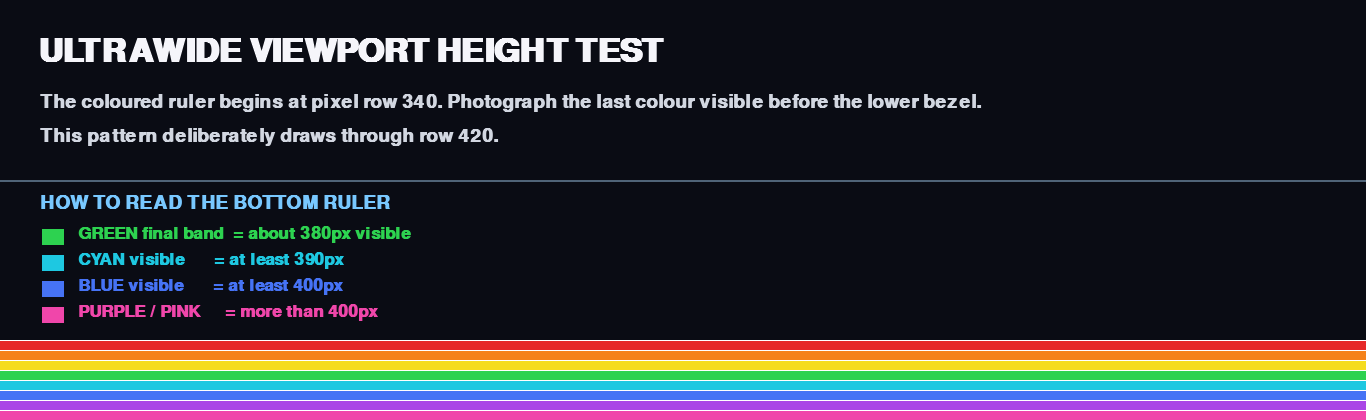
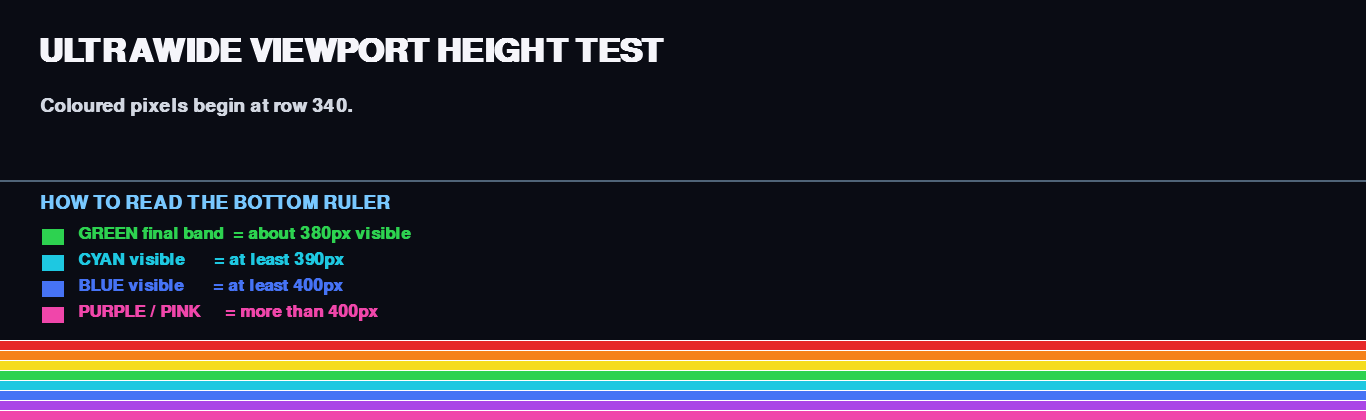
Make viewport diagnostic zero-slot

Changed region(s): [[0.0307, 0.2167, 0.7379, 0.2786], [0.0307, 0.3095, 0.369, 0.3405]]

diff --git a/marqueemark.py b/marqueemark.py
@@ -115,7 +115,7 @@ BUILTIN_LAYOUTS = {
     # 420px tall so panels with a different visible height can be measured.
     "viewport-test": {"id": "viewport-test", "name": "Advanced: Viewport Height Test", "base": "ultrawide-viewport-test.png",
                       "base_source": "builtin", "background_type": "image", "background_color": "#000000",
-                      "viewport_height": 420, "windows": [[0, 0, 40, 40]]},
+                      "viewport_height": 420, "diagnostic": True, "windows": []},
 }
 
 def _art_stem(value):
@@ -1301,9 +1301,10 @@ async function loadEco() {
 }
 function renderAll() {
   renderBasePills(); renderCustomEditor(); renderLivePreview();
-  const assignments=document.getElementById('eco-assignment-section'); assignments.classList.toggle('hidden',editingLayout);
+  const layout=selectedLayout(), isDiagnostic=layout && layout.diagnostic;
+  const assignments=document.getElementById('eco-assignment-section'); assignments.classList.toggle('hidden',editingLayout || isDiagnostic);
   if (!editingLayout) {
-    const layout=selectedLayout();
+    if (isDiagnostic) return;
     document.getElementById('eco-assignment-hint').textContent='Assign marquee art to “'+(layout?layout.name:'this layout')+'”. NeoSD Pro is the special live card.';
     document.getElementById('layout-delete').classList.toggle('hidden',!layout || !layout.id.startsWith('custom-')); renderCards();
     const send=document.getElementById('layout-send'), isLive=layout && layout.id===ecoConfig.layout_id;
